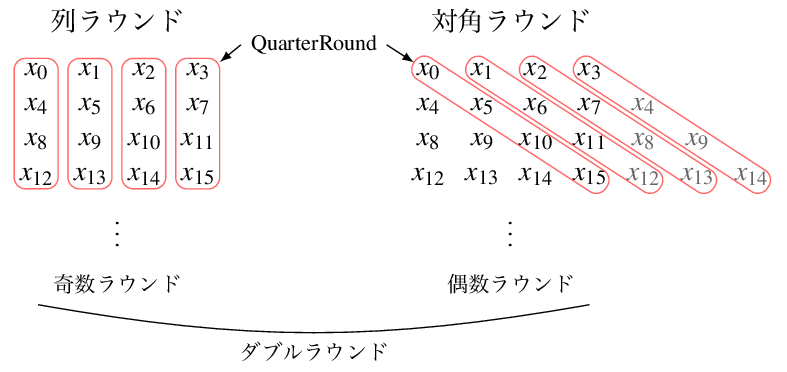
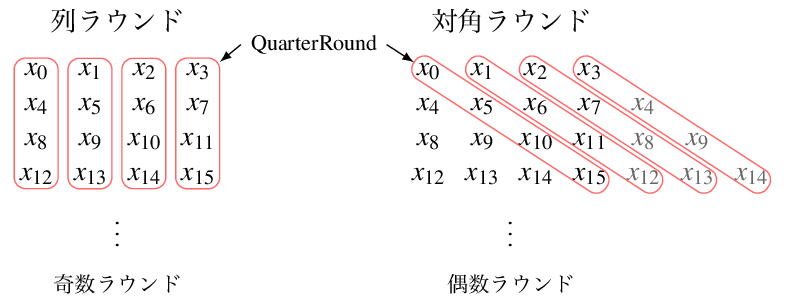
update img

diff --git a/media/post/tikz/img/chacha20poly1305/chacha20-quarter-round.tex b/media/post/tikz/img/chacha20poly1305/chacha20-quarter-round.tex
@@ -38,35 +38,38 @@
     % --- nodes ---
 
     \node at (0,0) [above] (a) {$a$};
-    \node at (2,0) [above] (b) {$b$};
-    \node at (4,0) [above] (c) {$c$};
-    \node at (6,0) [above] (d) {$d$};
+    \node at (1,0) [above] (b) {$b$};
+    \node at (2,0) [above] (c) {$c$};
+    \node at (3,0) [above] (d) {$d$};
 
-    \node at (0,-0.5)     (a1) [ADD] {};
-    \node at (6,-1.0+0.1) (d1) [XOR] {};
-    \node at (6,-1.5)     (d2) [ROTATE] {$\lll_{16}$};
-    \node at (4,-2.0)     (c1) [ADD] {};
-    \node at (2,-2.5+0.1) (b1) [XOR] {};
-    \node at (2,-3.0)     (b2) [ROTATE] {$\lll_{12}$};
-    \node at (0,-3.5)     (a2) [ADD] {};
-    \node at (6,-4.0+0.1) (d3) [XOR] {};
-    \node at (6,-4.5)     (d4) [ROTATE] {$\lll_{8}$};
-    \node at (4,-5.0)     (c2) [ADD] {};
-    \node at (2,-5.5+0.1) (b3) [XOR] {};
-    \node at (2,-6.0)     (b4) [ROTATE] {$\lll_{7}$};
+    \def\ax{0.25}
+    \def\xr{0.5}
+    \def\ra{0.25}
+    \node at (0,-0.4) (a1) [ADD] {};
+    \node at (3,-0.4-\ax) (d1) [XOR] {};
+    \node at (3,-0.4-\ax-\xr) (d2) [ROTATE] {$\lll$ \footnotesize 16};
+    \node at (2,-0.4-\ax-\xr-\ra) (c1) [ADD] {};
+    \node at (1,-1.4-\ax) (b1) [XOR] {};
+    \node at (1,-1.4-\ax-\xr) (b2) [ROTATE] {$\lll$ \footnotesize 12};
+    \node at (0,-1.4-\ax-\xr-\ra) (a2) [ADD] {};
+    \node at (3,-2.4-\ax) (d3) [XOR] {};
+    \node at (3,-2.4-\ax-\xr) (d4) [ROTATE] {$\lll$ \footnotesize 8};
+    \node at (2,-2.4-\ax-\xr-\ra) (c2) [ADD] {};
+    \node at (1,-3.4-\ax) (b3) [XOR] {};
+    \node at (1,-3.4-\ax-\xr) (b4) [ROTATE] {$\lll$ \footnotesize 7};
 
-    \node at (0,-6.5) [below] (a') {$a'$};
-    \node at (2,-6.5) [below] (b') {$b'$};
-    \node at (4,-6.5) [below] (c') {$c'$};
-    \node at (6,-6.5) [below] (d') {$d'$};
+    \node at (0,-4.6) [below] (a') {$a'$};
+    \node at (1,-4.6) [below] (b') {$b'$};
+    \node at (2,-4.6) [below] (c') {$c'$};
+    \node at (3,-4.6) [below] (d') {$d'$};
 
     % --- paths ---
 
-    \path[->] (a) edge (a1) (a1) edge (a2) (a2) edge (a');
-    \path[->] (b) edge (b1) (b1) edge (b2) (b2) edge (b3)
+    \path[->] (a)  edge (a1) (a1) edge (a2) (a2) edge (a');
+    \path[->] (b)  edge (b1) (b1) edge (b2) (b2) edge (b3)
               (b3) edge (b4) (b4) edge (b');
-    \path[->] (c) edge (c1) (c1) edge (c2) (c2) edge (c');
-    \path[->] (d) edge (d1) (d1) edge (d2) (d2) edge (d3)
+    \path[->] (c)  edge (c1) (c1) edge (c2) (c2) edge (c');
+    \path[->] (d)  edge (d1) (d1) edge (d2) (d2) edge (d3)
               (d3) edge (d4) (d4) edge (d');
 
     \draw[<-] (a1) -| node[DOT] {} (b);

diff --git a/media/post/tikz/img/chacha20poly1305/chacha20-double-round.tex b/media/post/tikz/img/chacha20poly1305/chacha20-double-round.tex
@@ -57,7 +57,7 @@
       \node at (0,-2.3) [above] {奇数ラウンド};
       \node at (5,-1.3) {$\vdots$};
       \node at (5,-2.3) [above] {偶数ラウンド};
-      \draw (-1,-2.3) to[bend right=10] node[below] {ダブルラウンド} (6,-2.3);
+      % \draw (-1,-2.3) to[bend right=10] node[below] {ダブルラウンド} (6,-2.3);
     \end{scope}
 
   \end{tikzpicture}
